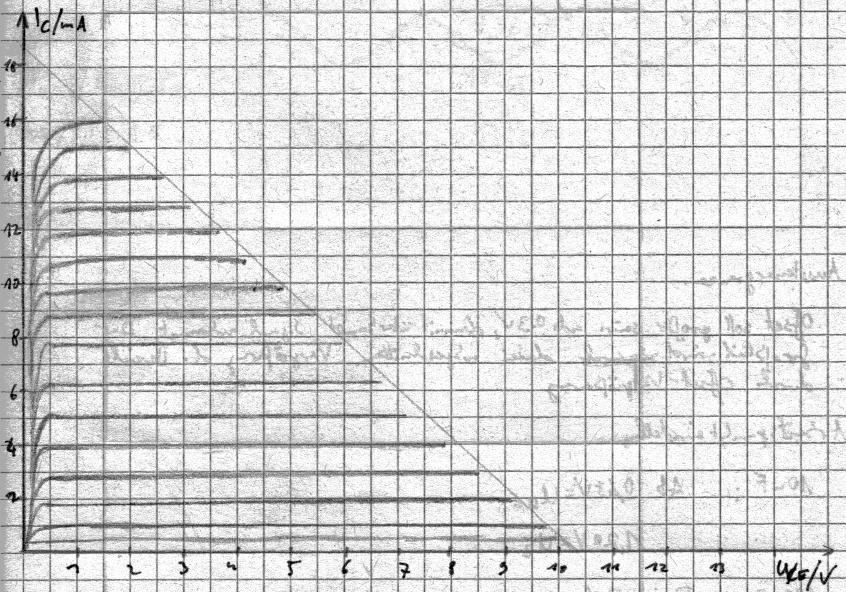
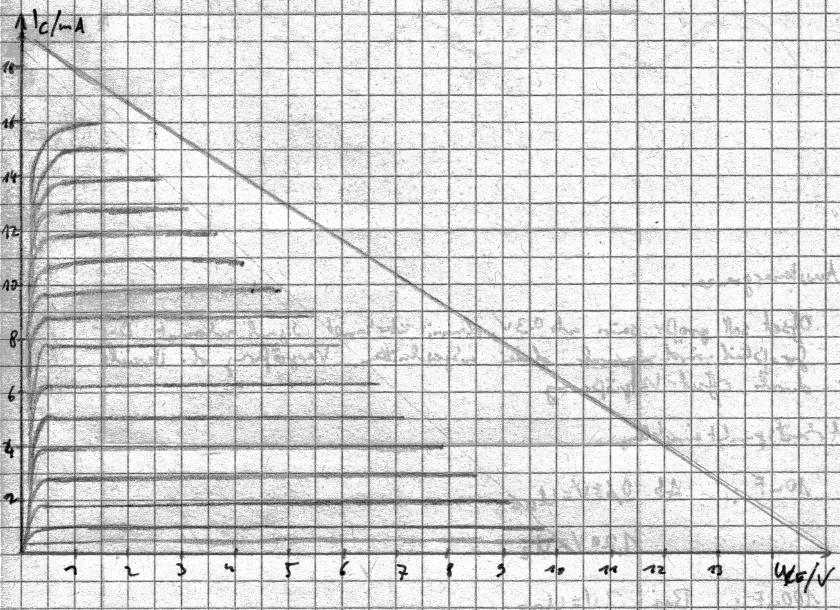
Auslesen Arbeitspunkt fertig

diff --git a/Template_3.tex b/Template_3.tex
@@ -550,21 +550,17 @@ Aus diesem Grund sollten wir bereits beim Abzeichnen des Kennlinienfeldes
 darauf achten, dass $\UCE$ einen Bereich bis $\SI{15}\volt$ und $\IC$ einen
 Bereich bis $\SI{20}{\milli\ampere}$ umfasst.
 
-Wir zeichnen diese Gerade in den Graph in Abbildung
-\ref{fig:refactor_Kennlinienfeld_Gerade} ein.
-
-\TODO{Bild einscannen und Gerade einzeichnen}
+Diese Gerade ist in Abbildung \ref{fig:3} schon eingezeichnet.
 
 In der Anleitung war gegeben, dass die Kennlinien $(\SI{12}\volt -
 \SI{.7}\volt)/(4 \cdot \SI{470}{\kilo\ohm})$, also \SI{6.01}{\micro\ampere}
 auseinander liegen. Es soll die Spannung $\UCE$ für den Arbeitspunkt $\IB =
 \SI{60}{\micro\ampere}$ abgeschätzt werden, in dem die Linien im Kennlinienfeld
-verlängert werden. Die gewünschte Linie ist dann die zehnte Linie. Aus dem
-erweiterten Kennlinienfeld in
-Abbildung~\ref{fig:refactor_Kennlinienfeld_erweitert} lesen wir die Spannung
-$\UCE$ ab: $\messwert$.
-
-\TODO{Wert aus Graph ablesen}
+verlängert werden. Die gewünschte Linie ist dann die zehnte Linie. Da wir
+davon ausgehen können, dass im Sättigungsbereich der Kollektorstrom
+näherungsweise konstant bleibt, lesen wir die Spannung
+$\UCE = \SI{7.4 \pm 0.1}{\volt}$ und den Strom $\IC = \SI{9.8 \pm
+0.2}{\milli\ampere}$ ab.
 
 \subsubsection{FET}
 
